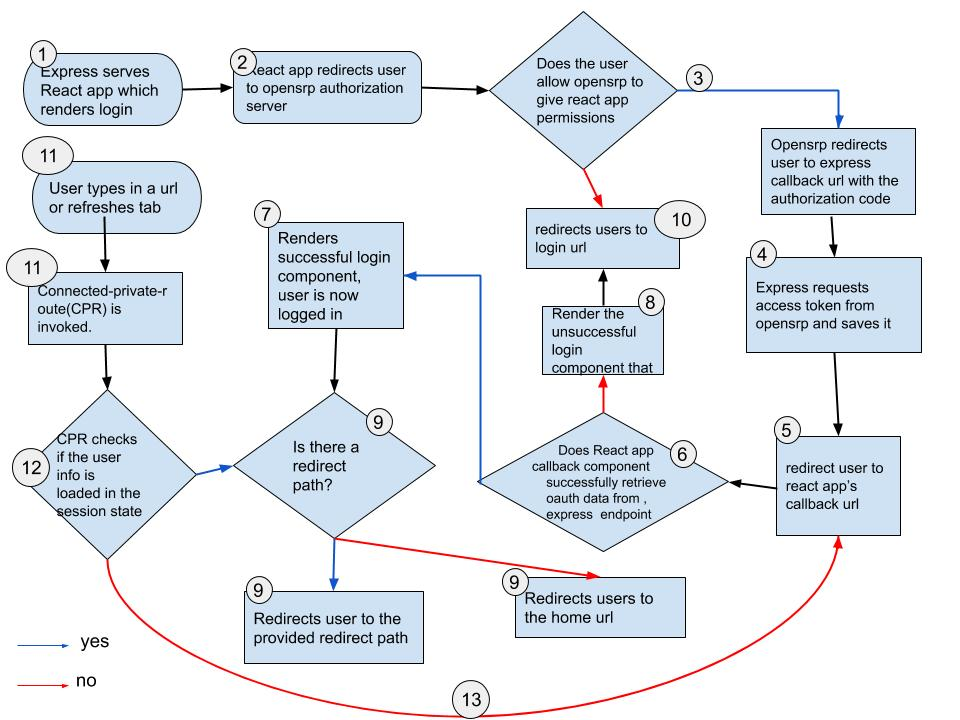
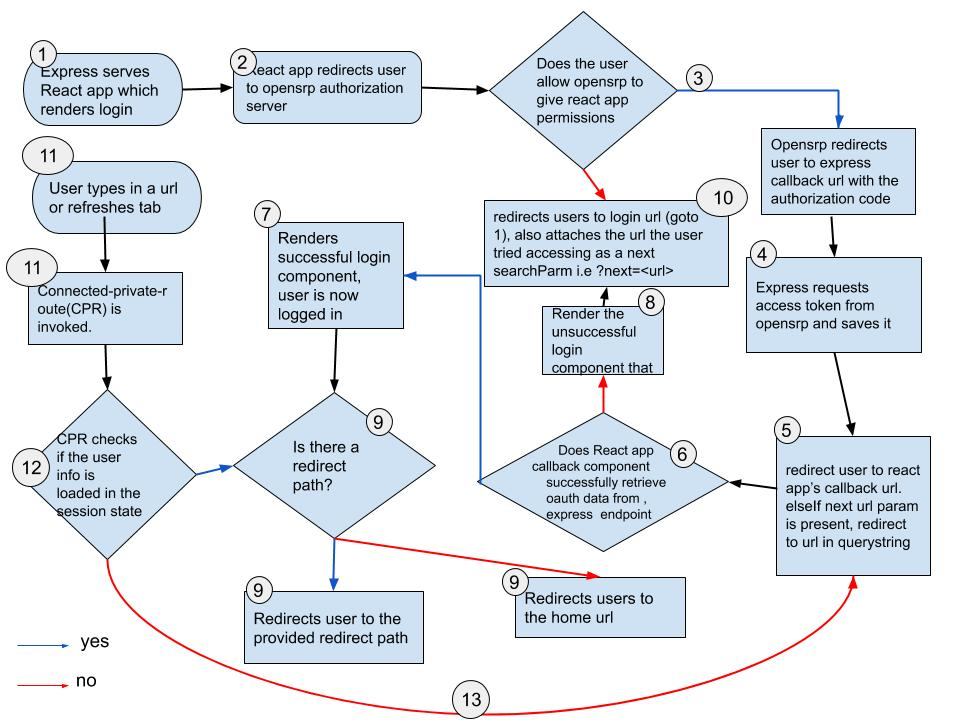
Refactor server docs

diff --git a/server/docs/README.md b/server/docs/README.md
@@ -10,7 +10,7 @@
 
 4. The express callback uses the authorization code to query for an access-token from the server; saves the session and sets a secure httpOnly cookie that contains the session ID.
 
-5. The user is then redirected to react's app callback url.
+5. If there is value(a url) passed in as a value to the `next` key in the url, then redirect to given url; otherwise redirect to react-app's callback url.
 
 6. The rendered callback component from [@onaio/gatekeeper](https://github.com/onaio/js-tools/blob/master/packages/gatekeeper/README.md) attempts to get the authentication details from the express server via an exposed endpoint and hydrates the state with the same.
 
@@ -20,7 +20,7 @@
 
 9. The SuccessfulLogin component checks if there is a redirectTo path defined. If one is defined then it redirects the user to the said path, if the path is not defined then the user is redirected to the home url.
 
-10. The unsuccessful login component redirects the user to the login url.
+10. The unsuccessful login component redirects the user to the login url, if the user had tried accessing a url before logging in, the url will be added to the url as a value to the key `next` as a search param.
 
 11. Where the user either refreshes or opens the app in new page. The connected private route [@onaio/connected-private-route](https://github.com/onaio/js-tools/blob/master/packages/connected-private-route/README.md) component provides the initial point of contact.
 
